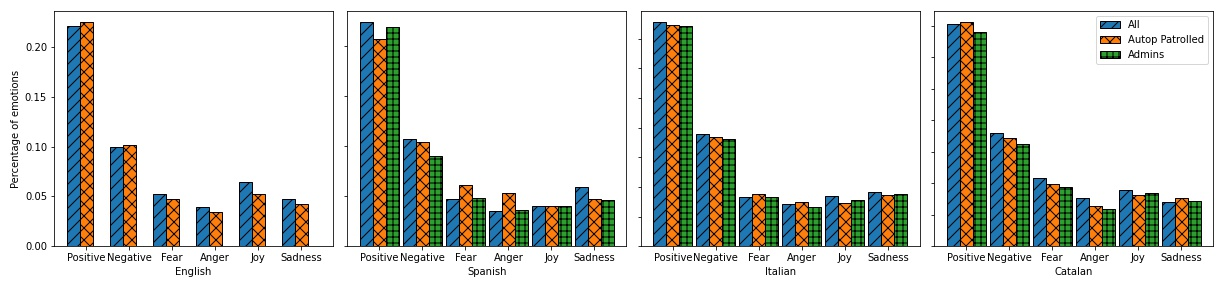
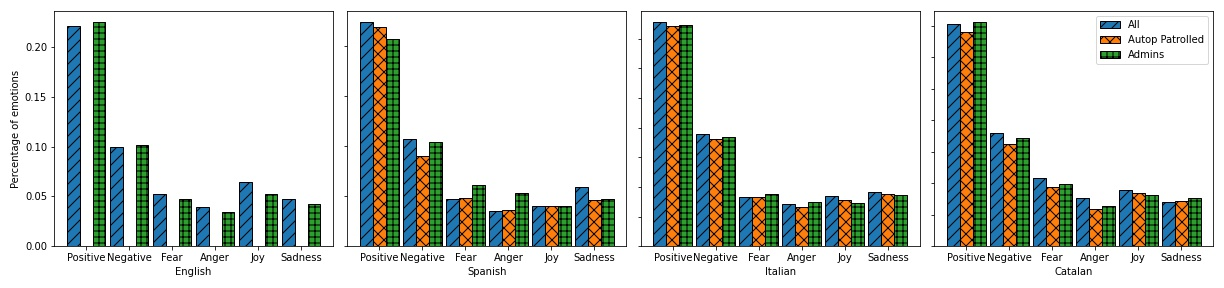
fix autoreviewr for en

diff --git a/scripts/chart-gender.py b/scripts/chart-gender.py
@@ -127,13 +127,13 @@ plt.setp(axs, xticks=xAx, xticklabels=x)
 for i, data in  enumerate(users):
 
     unknown = [ data[0]["all"]["all"]["mean"][e] for e in ems ]
-    male = [ data[0]["autopatrolled"]["all"]["mean"][e] for e in ems ]
-    female = [ data[0]["sysop"]["all"]["mean"][e] for e in ems ]
+    aut = [ data[0]["autopatrolled"]["all"]["mean"][e] for e in ems ]
+    admin = [ data[0]["sysop"]["all"]["mean"][e] for e in ems ]
 
     axs[i].set(xlabel=data[1], ylabel='Percentage of emotions')
     axs[i].bar(xAx - 0.3, unknown, 0.3, label = 'All', hatch="//", edgecolor='black')
-    axs[i].bar(xAx, female, 0.3, label = 'Autop Patrolled', hatch="xx", edgecolor='black')
-    axs[i].bar(xAx + 0.3, male, 0.3, label = 'Admins', hatch="++", edgecolor='black')
+    axs[i].bar(xAx, aut, 0.3, label = 'Autop Patrolled', hatch="xx", edgecolor='black')
+    axs[i].bar(xAx + 0.3, admin, 0.3, label = 'Admins', hatch="++", edgecolor='black')
 
 for ax in axs.flat:
     ax.label_outer()
@@ -151,19 +151,20 @@ def plotLinesAndBars(
     emotions = ems
 ):
     x = list(range(0, max(len(line) for line in lines)))
+    x = months[36:240]
     for line, e in zip(lines, emotions):
         ax.plot(x, line, 'k-', label=name[e], color=emotionColor[e][0])
-    ax.legend(loc='upper center')
-    ax.set_xlabel('Month from first activity')
+    ax.legend()
+    # ax.set_xlabel('Month from first activity')
 
-    axTwin = ax.twinx()
-    ax.patch.set_visible(False)
-    axTwin.patch.set_visible(True)
-    ax.set_zorder(axTwin.get_zorder() + 1)
-    axTwin.bar(x, bars, 0.5, color='gainsboro', label='Volumes' )
-    axTwin.set_ylim(0, max(bars) / 1)
-    if not hideLabel:
-        axTwin.set_ylabel('Number of active users')
+    # axTwin = ax.twinx()
+    # ax.patch.set_visible(False)
+    # axTwin.patch.set_visible(True)
+    # ax.set_zorder(axTwin.get_zorder() + 1)
+    # axTwin.bar(x, bars, 0.5, color='gainsboro', label='Volumes' )
+    # axTwin.set_ylim(0, max(bars) / 1)
+    # if not hideLabel:
+    #     axTwin.set_ylabel('Number of active users')
 
     # plt.gcf().autofmt_xdate()
     # plt.gca().xaxis.set_major_formatter(mdates.DateFormatter('%Y-%m'))
@@ -172,9 +173,9 @@ def plotLinesAndBars(
 
 
 def plottaLang(ax, title, dataset, xField, role='all', hideLabel = False):
-    lines = [ np.array([ x['mean'][e] for x in dataset[role][xField][:150] ]) for e in ems ]
+    lines = [ np.array([ x['mean'][e] for x in dataset[role][xField][36:240] ]) for e in ems ]
     lines = [ (line - np.mean(line)) / np.var(line) for line in lines ]
-    bars = [ x['n'] for x in dataset[role][xField][:150] ]
+    bars = [ x['n'] for x in dataset[role][xField][36:240] ]
 
     ax.title.set_text(title)
     ax.get_yaxis().set_visible(False)
@@ -250,20 +251,20 @@ def plot4(reply: bool, xField, title, name='unamed.jpg'):
     f = plt.figure(figsize=(15, 7))
     fig, axs = plt.subplots(2, 2, figsize=(15,8))
     d = dataReplyEn if reply else dataUserEn
-    plottaLang(axs[0][0], 'English', d, xField, 'all', True)
-    plottaLang(axs[0][1], 'Spanish', d, xField, 'all')
-    plottaLang(axs[1][0], 'Italian', d, xField, 'all', True)
-    plottaLang(axs[1][1], 'Catalan', d, xField, 'all')
+    plottaLang(axs[0][0], 'English', dataReplyEn if reply else dataUserEn, xField, 'all', True)
+    plottaLang(axs[0][1], 'Spanish', dataReplyEs if reply else dataUserEs, xField, 'all')
+    plottaLang(axs[1][0], 'Italian', dataReplyIt if reply else dataUserIt, xField, 'all', True)
+    plottaLang(axs[1][1], 'Catalan', dataReplyCa if reply else dataUserCa, xField, 'all')
     for ax in axs.flat:
         ax.label_outer()
-    fig.suptitle(title)
+    # fig.suptitle(title)
     plt.tight_layout()
     plt.savefig(name)
 
 # %% users emotion
 # plot4(False, 'monthStart', 'Emotions expressed by users from their first action', 'mstartuser.jpg')
 # plot4(True, 'monthStart', 'Emotions received by users from their first action', 'mstartreply.jpg')
-plot4(False, 'month', 'User emotion written monthEnd')
+plot4(False, 'month', 'User emotion written monthEnd', 'time.jpg')
 
 # gender(False, 'monthStart', 'La locura')
 # roles(False, 'monthStart', 'La locura')

diff --git a/wikiconv-analyze-pages/analyzers/by_gender.py b/wikiconv-analyze-pages/analyzers/by_gender.py
@@ -176,7 +176,7 @@ class ByGender(Analyzer):
             else:
                 ByGender.addToSection('unknown', userEmotions, monthsEmotions, monthsEmotionsI, mDiff, offSetMonths)
 
-            if 'autopatrolled' in userInfo['roles']:
+            if 'autopatrolled' in userInfo['roles'] or 'autoreviewer' in userInfo['roles']:
                 ByGender.addToSection('autopatrolled', userEmotions, monthsEmotions, monthsEmotionsI, mDiff, offSetMonths)
             if 'rollbacker' in userInfo['roles']:
                 ByGender.addToSection('rollbacker', userEmotions, monthsEmotions, monthsEmotionsI, mDiff, offSetMonths)
